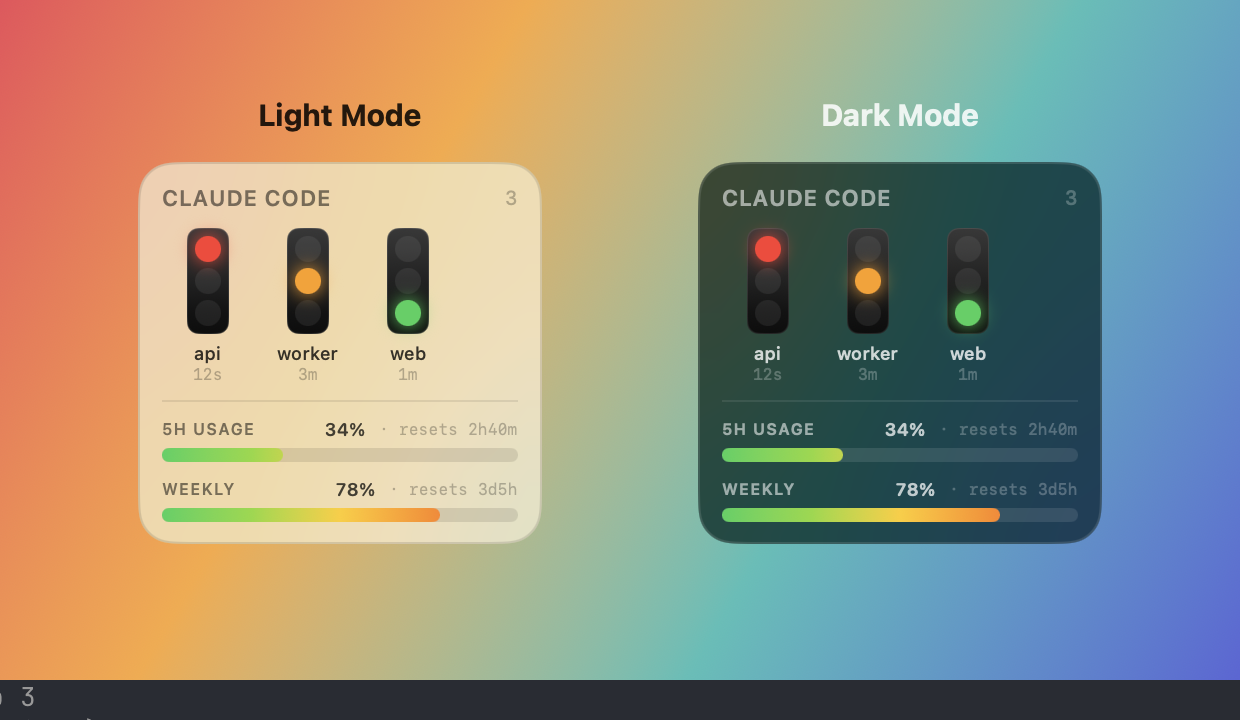
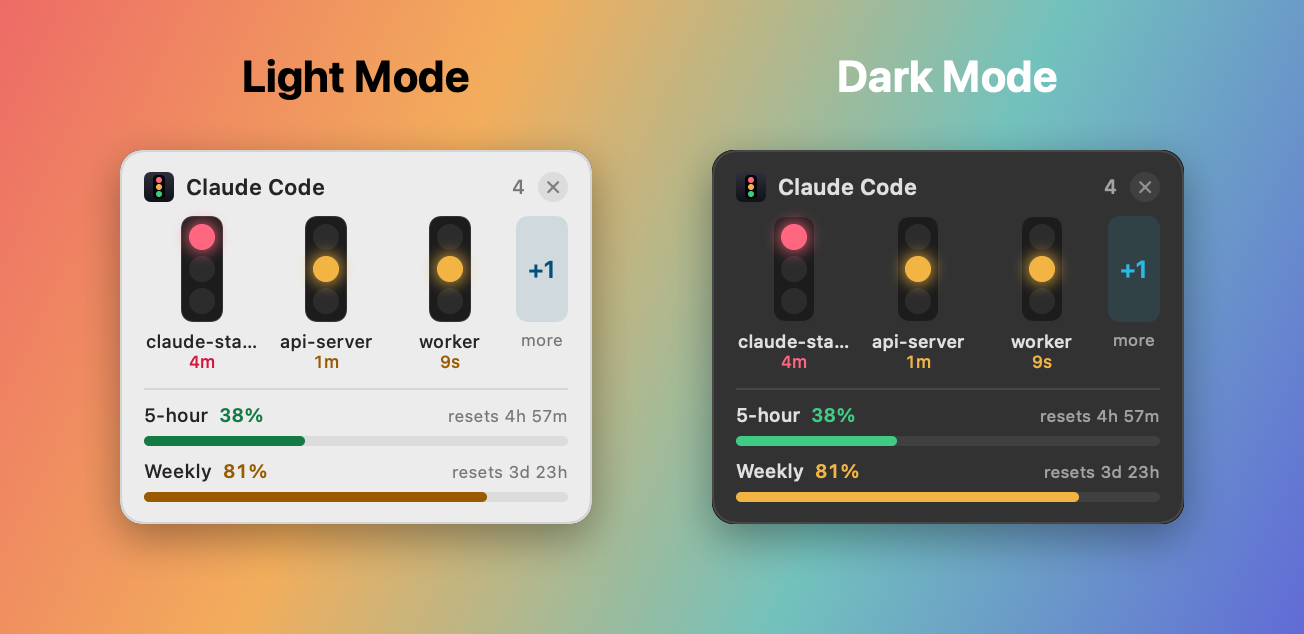
docs: refresh README and screenshots for the redesigned panel (#5)

diff --git a/Sources/ClaudeStatusBarApp/ClaudeStatusBarApp.swift b/Sources/ClaudeStatusBarApp/ClaudeStatusBarApp.swift
@@ -302,9 +302,9 @@ extension AppModel {
         let now = Date()
         let sessions = [
             SessionViewItem(id: "a", state: .red, cwd: "/Users/me/Projects/claude-status-bar", stateSince: now - 252),
-            SessionViewItem(id: "b", state: .yellow, cwd: "/Users/me/Projects/kor-cli", stateSince: now - 74),
-            SessionViewItem(id: "c", state: .yellow, cwd: "/Users/me/Projects/rs-metrics", stateSince: now - 9),
-            SessionViewItem(id: "d", state: .green, cwd: "/Users/me/Projects/korvpn", stateSince: now - 760),
+            SessionViewItem(id: "b", state: .yellow, cwd: "/Users/me/Projects/api-server", stateSince: now - 74),
+            SessionViewItem(id: "c", state: .yellow, cwd: "/Users/me/Projects/worker", stateSince: now - 9),
+            SessionViewItem(id: "d", state: .green, cwd: "/Users/me/Projects/web", stateSince: now - 760),
         ]
         let usage = UsageSnapshot(updatedAt: now, fiveHourPercent: 38, fiveHourResetsAt: now + 17_820,
                                   sevenDayPercent: 81, sevenDayResetsAt: now + 344_000)

diff --git a/README.md b/README.md
@@ -1,23 +1,28 @@
 # 🚦 Claude Status Bar
 
 ![macOS 14+](https://img.shields.io/badge/macOS-14%2B-000000?logo=apple&logoColor=white)
-![Swift](https://img.shields.io/badge/Swift-5.9-F05138?logo=swift&logoColor=white)
-![Menu bar](https://img.shields.io/badge/menu%20bar-SwiftUI-1E90FF)
+![Swift](https://img.shields.io/badge/Swift-6-F05138?logo=swift&logoColor=white)
+![Menu bar](https://img.shields.io/badge/menu%20bar-SwiftUI%20%2B%20AppKit-1E90FF)
 ![Telemetry](https://img.shields.io/badge/telemetry-none-2ecc71)
 
 An ambient status light for [Claude Code](https://claude.com/claude-code). A menu-bar
-dot and an optional floating glass panel show, at a glance, whether each session is
+traffic light and an optional floating panel show, at a glance, whether each session is
 **🔴 waiting for you**, **🟡 running**, or **🟢 done** — driven automatically by Claude
 Code hooks, with desktop notifications on the transitions that matter.
 
 No network, no telemetry. Everything is local files under `~/.claude/`.
 
-![Claude Status Bar — the floating panel and session list in light and dark mode](docs/hero.png)
+![Claude Status Bar — the menu-bar panel in light and dark mode](docs/hero.png)
 
 ## 📋 Requirements
 
 - macOS 14 (Sonoma) or later
-- Swift toolchain (Xcode **or** Command Line Tools: `xcode-select --install`)
+- Xcode (the full app, not just Command Line Tools: recent Command Line Tools ship without the
+  SwiftUI macro plugin, so the build fails with `plugin for module 'SwiftUIMacros' not found`)
+
+If `xcode-select -p` prints `/Library/Developer/CommandLineTools`, either switch with
+`sudo xcode-select -s /Applications/Xcode.app` or prefix the install command with
+`DEVELOPER_DIR=/Applications/Xcode.app/Contents/Developer`.
 
 ## 🚀 Install (CLI)
 
@@ -36,7 +41,7 @@ cd claude-status-bar
 3. copies it to **`~/Applications`** (its permanent home),
 4. wires the hooks into `~/.claude/settings.json` — your existing hooks are preserved and
    a `.bak` is written,
-5. launches it — a dot appears in your menu bar.
+5. launches it — a traffic light appears in your menu bar.
 
 Re-running is safe: hooks merge idempotently (no duplicates), and reinstalling to the same
 path preserves your notification permission.
@@ -96,12 +101,12 @@ the Claude Code engine and fire the same hooks.
 
 ## 📊 Usage bars — 5-hour + weekly (optional)
 
-The floating panel (and the dropdown menu) can show colourful **usage** loaders — a **5-hour**
-bar and, when available, a **weekly** bar (green → yellow → red as you approach each limit, with
-a reset countdown). Enable the floating bars in **gear menu → Usage in Floating Lights**; the dropdown shows
-them automatically whenever usage data exists.
+The menu-bar panel and the floating lights can show **usage** bars — a **5-hour**
+bar and, when available, a **weekly** bar (green under 75%, amber under 90%, red above, with a
+reset countdown). The menu-bar panel shows them whenever usage data exists; for the floating
+lights, turn on **gear menu → Usage in Floating Lights**.
 
-![Usage bars in light and dark mode](docs/usage.png)
+![Floating lights with usage bars in light and dark mode](docs/usage.png)
 
 Claude Code only exposes the real rate-limit numbers to a **statusline** command (never to hooks
 or any file — it's a native Claude Code feature, not a plugin), so this is opt-in: point the
@@ -143,7 +148,7 @@ Until a snapshot exists the bar stays hidden (no fake data). The number matches 
 
 ```
 Claude Code ──hook (sync)──▶ claude-statusbar-hook ──▶ ~/.claude/statusbar/<id>.json
-                                                              │ (polled every 0.5s)
+                                                              │ (directory watcher, no polling)
                                               menu-bar app + floating panel
 ```
 
@@ -169,13 +174,16 @@ rm -rf ~/Applications/ClaudeStatusBar.app ~/.claude/statusbar
 
 - **No notifications** — approve them in System Settings → Notifications → ClaudeStatusBar.
   Notifications only fire from the bundled `.app` (not bare `swift run`).
-- **Dot doesn't move** — make sure you opened a *new* session after installing; check a
+- **Light doesn't change** — make sure you opened a *new* session after installing; check a
   state file appears: `ls ~/.claude/statusbar/`.
 - **"Start at login" won't stick / an old build keeps launching** — make sure there's only
   **one** copy of the app. A duplicate in `/Applications` and `~/Applications` share a bundle
   id, so the wrong one launches at login and shadows updates. Keep the `~/Applications` copy
   and delete the other (`sudo rm -rf /Applications/ClaudeStatusBar.app`), then toggle **Start
   at login** off/on to re-register.
+- **Icon missing from the menu bar** — macOS may have put it in the hidden section of a crowded
+  menu bar (behind the `«` chevron). Expand it and ⌘-drag the traffic light out; macOS remembers
+  the spot.
 
 ## 🛠 Development
 
@@ -183,11 +191,13 @@ rm -rf ~/Applications/ClaudeStatusBar.app ~/.claude/statusbar
 swift run ClaudeStatusBarTests   # full test suite (dependency-free harness)
 swift build                      # build all targets
 ./scripts/bundle.sh              # build the .app only
+CSB_RENDER=/tmp/shot .build/debug/ClaudeStatusBarApp   # render both panels, light + dark, to PNGs
 ```
 
 Source is a SwiftPM package: `StatusCore` (state model), `StatusStore` (hook helper +
 state files), `StatusApp` (view-model, notifications, floating selection),
-`StatusInstall` (settings.json installer), and the `ClaudeStatusBarApp` SwiftUI shell.
+`StatusInstall` (settings.json installer), and the `ClaudeStatusBarApp` shell (AppKit status
+item + SwiftUI views).
 
 ## 📤 Distribution
 
